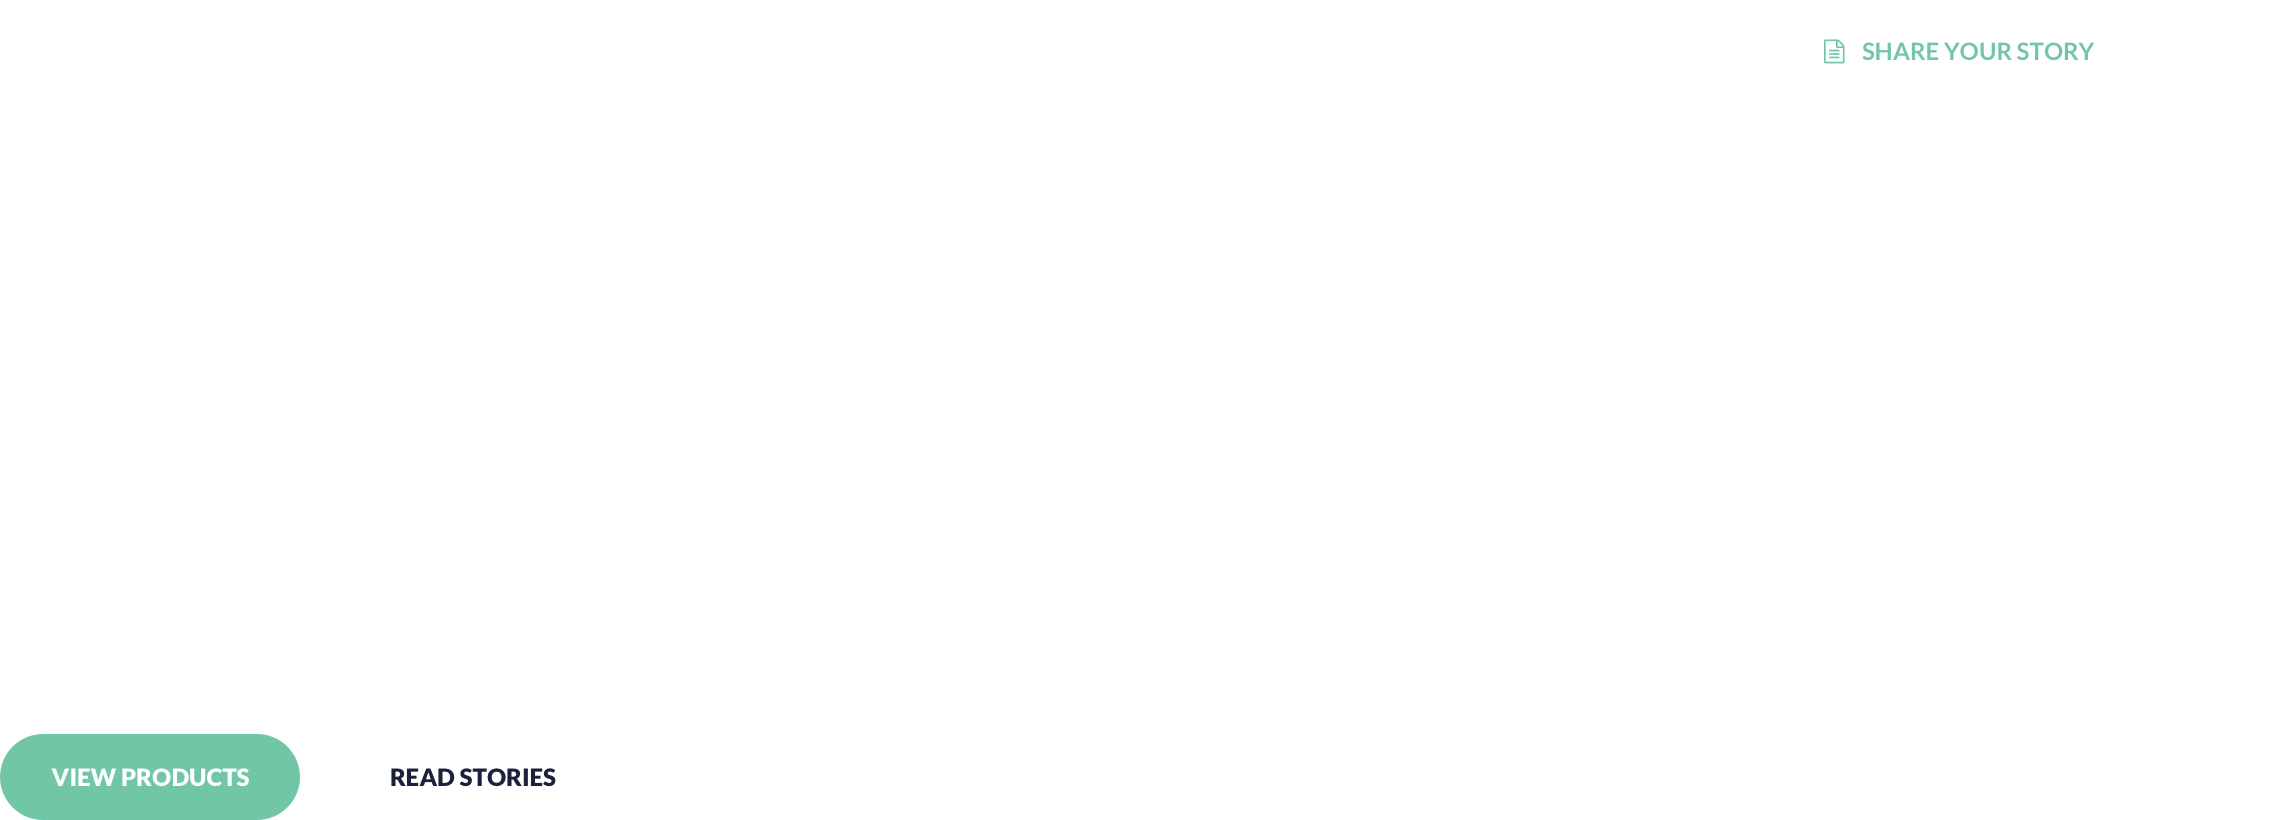
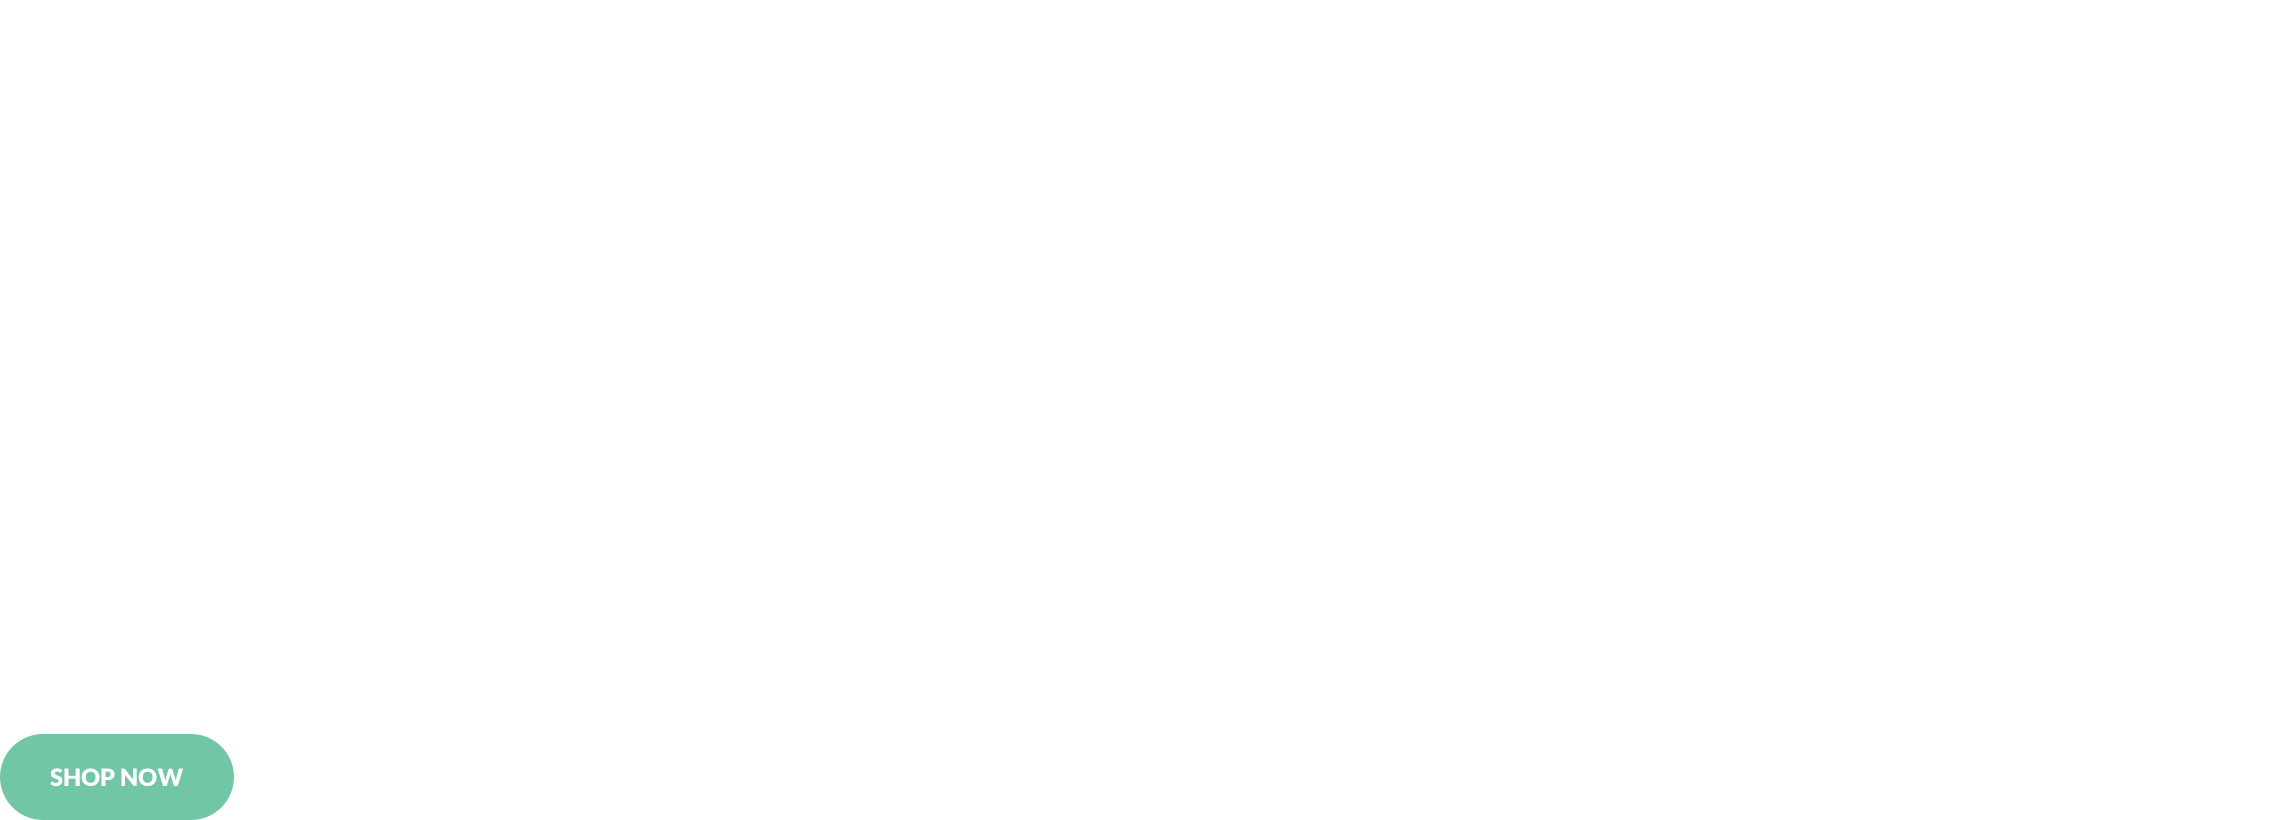
new home page

Changed region(s): [[0.0311, 0.8841, 0.2491, 1.0], [0.7785, 0.0305, 0.9031, 0.0915]]

diff --git a/greenacre/home/index.html b/greenacre/home/index.html
@@ -12,56 +12,16 @@
     <div class="top">
         <img src="images/top.png">
     </div>
-    <img src="images/heading.jpg">
-    <main>
-        <div class="row products">
-            <div class="col image">
-                <img src="images/products-content.jpg">
-            </div>
-            <div class="col collage">
-                <div class="collage-images">
-                    <ul>
-                        <li><a href="#"><div><span>Green Acre Heather Gray Tee</span></div><img src="images/product1.jpg"></a></li>
-                        <li><a href="#"><div><span>Green Acre Heather Gray Tee</span></div><img src="images/product2.jpg"></a></li>
-                        <li><a href="#"><div><span>Green Acre Heather Gray Tee</span></div><img src="images/product3.jpg"></a></li>
-                        <li><a href="#"><div><span>Green Acre Heather Gray Tee</span></div><img src="images/product4.jpg"></a></li>
-                        <li><a href="#"><div><span>Green Acre Heather Gray Tee</span></div><img src="images/product4.jpg"></a></li>
-                        <li><a href="#"><div><span>Green Acre Heather Gray Tee</span></div><img src="images/product3.jpg"></a></li>
-                        <li><a href="#"><div><span>Green Acre Heather Gray Tee</span></div><img src="images/product2.jpg"></a></li>
-                        <li><a href="#"><div><span>Green Acre Heather Gray Tee</span></div><img src="images/product1.jpg"></a></li>
-                        <li><a href="#"><div><span>Green Acre Heather Gray Tee</span></div><img src="images/product2.jpg"></a></li>
-                        <li><a href="#"><div><span>Green Acre Heather Gray Tee</span></div><img src="images/product1.jpg"></a></li>
-                    </ul>
-                </div>
-            </div>
-        </div>
-        <div class="row storytellers">
-            <div class="col collage">
-                <div class="collage-images">
-                    <ul>
-                        <li><a href="#"><div><span>Green Acre Heather Gray Tee</span></div><img src="images/product1.jpg"></a></li>
-                        <li><a href="#"><div><span>Green Acre Heather Gray Tee</span></div><img src="images/product2.jpg"></a></li>
-                        <li><a href="#"><div><span>Green Acre Heather Gray Tee</span></div><img src="images/product3.jpg"></a></li>
-                        <li><a href="#"><div><span>Green Acre Heather Gray Tee</span></div><img src="images/product4.jpg"></a></li>
-                        <li><a href="#"><div><span>Green Acre Heather Gray Tee</span></div><img src="images/product4.jpg"></a></li>
-                        <li><a href="#"><div><span>Green Acre Heather Gray Tee</span></div><img src="images/product3.jpg"></a></li>
-                        <li><a href="#"><div><span>Green Acre Heather Gray Tee</span></div><img src="images/product2.jpg"></a></li>
-                        <li><a href="#"><div><span>Green Acre Heather Gray Tee</span></div><img src="images/product1.jpg"></a></li>
-                        <li><a href="#"><div><span>Green Acre Heather Gray Tee</span></div><img src="images/product2.jpg"></a></li>
-                        <li><a href="#"><div><span>Green Acre Heather Gray Tee</span></div><img src="images/product1.jpg"></a></li>
-                    </ul>
-                </div>
-            </div>
-            <div class="col image">
-                <img src="images/storytellers-content.jpg">
-            </div>
-        </div>
-    </main>
+    <img class="main" src="images/main.jpg">
     <div class="share">
         <img src="images/share.jpg">
     </div>
-    <div class="feed">
+    <div class="giving-back">
+        <div class="container">
+            <img src="images/giving-back-content.png">
+        </div>
     </div>
+    <img class="community" src="images/community.jpg">
     <div class="footer">
         <img src="images/footer.jpg">
     </div>

diff --git a/greenacre/home/style.css b/greenacre/home/style.css
@@ -19,104 +19,21 @@ img {
     width: 1140px;
 }
 
+.container {
+    margin: 0 auto;
+    text-align: left;
+    width: 1140px;
+}
+
 .top {
-    background: url('images/hero_bg.jpg');
+    background: url('images/hero_bg2.jpg');
     background-position: center;
     background-size: cover;
     padding: 30px 0px 170px 0px;
 }
 
-.row {
-    display: table;
-    margin: 0 auto;
-    width: 1140px;
-}
-
-.row .col {
-    display: table-cell;
-    vertical-align: middle;
-    width: 50%;
-}
-
-.row .col img {
-    width: 100%;
-}
-
-main {
-    border-top: 1px solid #e1e1e1;
-}
-
-.image {
-    padding: 96px 0px 97px 0px;
-}
-
-.col.collage {
-    position: relative;
-    text-align: left;
-}
-
-.collage-images {
-    position: absolute;
-    top: 0;
-    width: 1000px;
-}
-
-.products .image {
-    padding-right: 35px;
-}
-
-.storytellers .image {
-    padding-left: 35px;
-}
-
-.products .collage-images {
-    left: 0px;
-}
-
-.storytellers {
-    margin-top: 21px;
-    margin-bottom: 13px;
-}
-
-.storytellers .collage-images {
-    right: 0px;
-}
-
-.collage li {
-    float: left;
-    width: 200px;
-}
-
-.collage li a {
-    cursor: pointer;
-    color: #ffffff;
-    display: inline-block;
-    position: relative;
-}
-
-.collage-images a div {
-    background: rgba(27,32,60, 0.9);
-    bottom: 0;
-    left: 0;
-    opacity: 0;
-    position: absolute;
-    right: 0;
-    text-align: center;
-    transition: opacity 0.5s;
-    top: 0;
-}
-
-.collage-images a span {
-    left: 0;
-    padding: 0 30px;
-    position: absolute;
-    top: 50%;
-    transform: translateY(-50%);
-    width: 100%;
-}
-
-.collage-images a:hover div {
-    opacity: 1;
+.main {
+    margin: 100px 0px;
 }
 
 .share {
@@ -128,14 +45,22 @@ main {
     width: 1440px;
 }
 
+.giving-back {
+    background-image: url('images/give-back.jpg');
+    background-position: center;
+    background-repeat: no-repeat;
+    background-size: cover;
+}
+.giving-back img {
+    margin: 125px 0px;
+    width: 568px;
+}
+
 .footer {
     background: #1B203C;
 }
 
-.feed {
-    background-image: url('images/instafeed.jpg');
-    background-size: 1440px 240px;
-    display: block;
-    height: 240px;
-    width: 100%;
+.community {
+    margin: 100px 0px;
+    width: 1275px;
 }
